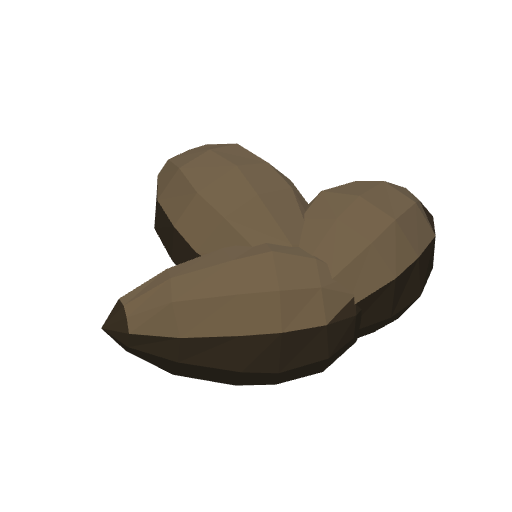
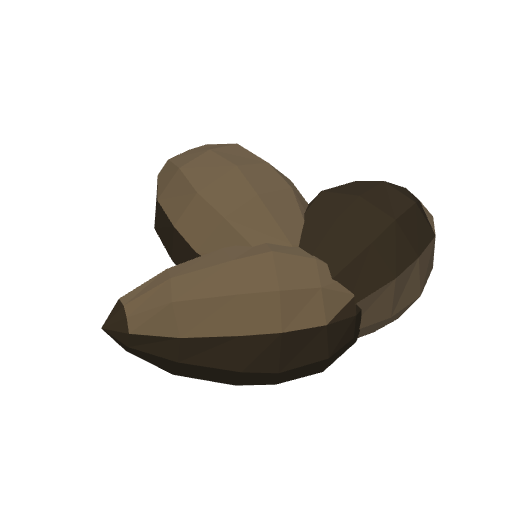
fix(ingredients): poppyseed·sunflowerseed 64px 판독 실패 수정
신규 16종 64px 판독에서 **14 통과 / 2 실패**. 둘 다 tri·KB·roundtrip은 통과한 상태였다.

## sunflowerseed — 색만 고쳤다 (tri 0 증가)

★검사가 결정적인 A/B를 짚었다: **`flaxseed`와 거의 같은 "1+n 겹침" 구성인데 승패가 갈렸다.**
flaxseed는 낱알 사이에 명도 대비가 있어 틈새(네거티브 스페이스)가 살았고, sunflowerseed는
3알이 전부 같은 배색이라 경계가 사라져 하나의 하트 실루엣으로 뭉쳤다.
**같은 구도인데 하나만 실패하면 그 차이가 곧 처방이다** — 원인 추측을 건너뛸 수 있었다.

머티리얼 2개가 상한이라 색을 못 늘린다. 대신 **낱알마다 두 버킷의 배정을 뒤집었다** —
a·c는 어두운 몸통+밝은 줄무늬, b는 그 반대. 인접한 알끼리 명도가 갈려 경계가 스스로 드러난다.
머티리얼 수도 tri(360)도 그대로다.

## poppyseed — 실루엣, 비율을 뒤집었다

"큰 원반이 화면을 지배하고 점들은 꼬리로 붙는다"는 진단을 수치로 확인했다:
더미 반지름 **0.78 vs 낱알 0.09~0.17 — 더미가 5~9배**였다.
★**다운샘플 전 512px 원본에서 이미 그랬다** — 해상도가 아니라 구도 문제다.

- 더미 0.78 → 0.52 (렌즈꼴 비율 유지, 지터도 같이 낮춤 — 명도 침식 방지)
- 낱알 0.09~0.17 → 0.20~0.30, 좌우로 벌려 셋이 안 겹치게
- 낱알/더미 비율 0.12~0.22배 → **0.38~0.58배**. tri 234 그대로

검사가 제안한 두 안 중 "알갱이 5~6개로 재설계"가 아니라 **비율 조정**을 택했다 —
개수를 늘리면 크랜베리 함정(뭉쳐서 얼룩)에 **반대로** 걸린다.

## 크립에 올린 것

★**"부품 : 더미" 비율이 판독을 정하고, 양쪽으로 다 틀릴 수 있다**는 표를 만들었다 —
coconut은 부품이 **커서** 성게 가시가 됐고 poppyseed는 **작아서** 먹혔다. 같은 축의 반대 방향이다.
그리고 **머티리얼 ≤2에서도 배정을 뒤집으면 낱알별 명암을 만들 수 있다**는 것.

검증: vitest 187/187 · tsc 0 · eslint src 0 · roundtrip 둘 다 통과 · 예산 그대로.

Claude-Session: https://claude.ai/code/session_01UpDH2U1e4JnMopJwuhVJAM

Changed region(s): [[0.5625, 0.3438, 0.875, 0.6562]]

diff --git a/scripts/ingredients/sunflowerseed.ts b/scripts/ingredients/sunflowerseed.ts
@@ -94,10 +94,28 @@ interface KernelDef {
 }
 // sunflowerseed.png/-2/-3 실측: 3알이 바짝 붙어 서로 다른 각도로 겹쳐 놓인다 — 올리브 클러스터
 // 패턴(offset/yaw/tiltZ 다양화)을 그대로 재사용하되 간격을 더 좁혀 "꽉 찬 덩어리" 인상을 준다.
+//
+// ★v2 (2026-08-26, 64px 판독 실패 수정): `flipBuckets`로 낱알별 명암을 교대시킨다.
+//
+// v1은 3알이 **전부 같은 배색**(몸통 어두움 + 같은 자리 줄무늬)이라 64px에서 낱알 경계가 사라지고
+// 하나의 하트 실루엣으로 뭉쳤다. `flaxseed`가 거의 같은 "1+n 겹침" 구성인데 통과한 이유는
+// 낱알 사이에 **명도 대비**가 있어 틈새(네거티브 스페이스)가 살아 있었기 때문이다 — 판독 검사가
+// 그 A/B를 그대로 짚었다.
+//
+// 머티리얼은 여전히 2개다(상한). **색을 늘리는 게 아니라 두 버킷의 배정을 낱알마다 뒤집는다** —
+// a·c는 어두운 몸통 + 밝은 줄무늬, b는 밝은 몸통 + 어두운 줄무늬. 인접한 알끼리 명도가 갈려
+// 경계가 스스로 드러난다. tri 0 증가.
+interface KernelDef {
+  offset: readonly [number, number];
+  yaw: number;
+  tiltZ: number;
+  /** true면 몸통·줄무늬 색을 서로 바꿔 이웃 알과 명도를 갈라 놓는다 */
+  flipBuckets: boolean;
+}
 const KERNELS: Record<'a' | 'b' | 'c', KernelDef> = {
-  a: { offset: [-0.42, 0.12], yaw: -0.4, tiltZ: 0.0 },
-  b: { offset: [0.42, 0.1], yaw: 0.45, tiltZ: 0.0 },
-  c: { offset: [0.0, -0.4], yaw: 1.6, tiltZ: 0.12 },
+  a: { offset: [-0.42, 0.12], yaw: -0.4, tiltZ: 0.0, flipBuckets: false },
+  b: { offset: [0.42, 0.1], yaw: 0.45, tiltZ: 0.0, flipBuckets: true },
+  c: { offset: [0.0, -0.4], yaw: 1.6, tiltZ: 0.12, flipBuckets: false },
 };
 
 export const createSunflowerseed: IngredientBuilder = (rng) => {
@@ -110,8 +128,9 @@ export const createSunflowerseed: IngredientBuilder = (rng) => {
     const def = KERNELS[key];
     const { bodyGeo, stripeGeo } = buildKernel(rng);
     const kernel = new THREE.Group();
-    kernel.add(new THREE.Mesh(bodyGeo, bodyMat));
-    kernel.add(new THREE.Mesh(stripeGeo, stripeMat));
+    // 배정만 뒤집는다 — 머티리얼 인스턴스는 둘 그대로라 mergeByMaterial의 ≤2 계약이 유지된다
+    kernel.add(new THREE.Mesh(bodyGeo, def.flipBuckets ? stripeMat : bodyMat));
+    kernel.add(new THREE.Mesh(stripeGeo, def.flipBuckets ? bodyMat : stripeMat));
     cluster.add(placeAndGround(kernel, def.offset, def.yaw, def.tiltZ));
   });
 

diff --git a/scripts/ingredients/poppyseed.ts b/scripts/ingredients/poppyseed.ts
@@ -54,10 +54,21 @@ function buildSeed(rng: () => number, radius: number): { bodyGeo: THREE.BufferGe
 }
 
 // 더미 — 낮고 넓은 힙(단일 버킷, BODY_COLOR). poppyseed.png 실측: 폭 대비 높이가 낮은 렌즈꼴.
+//
+// ★v2 (2026-08-26, 64px 판독 실패 수정): 더미를 줄이고 낱알을 키워 **비율을 뒤집었다.**
+//
+// v1은 더미 반지름 0.78 vs 낱알 0.09~0.17 — 더미가 낱알의 **5~9배**였다. 그 결과 64px에서
+// 더미가 화면을 지배하고 낱알은 꼬리처럼 붙어, "양귀비씨 무더기"가 아니라 **"검은 돌 하나"**로 읽혔다
+// (판독 검사: "딱정벌레 등껍질"). 다운샘플 전 512px 원본에서 이미 그랬다 — 해상도 문제가 아니라
+// 구도 문제였다.
+//
+// ★CRIB의 "부품 길이 : 더미 반지름 비율" 함정(coconut)과 **같은 축의 반대 방향**이다:
+// coconut은 부품이 더미보다 커서 성게 가시가 됐고, 여기는 부품이 너무 작아 더미에 먹혔다.
+// 어느 쪽이든 **둘의 비율**이 판독을 정한다.
 const MOUND_SEGMENTS = 14;
-const MOUND_RADIUS = 0.78;
-const MOUND_HALF_HEIGHT = 0.26;
-const MOUND_JITTER_AMP = 0.03;
+const MOUND_RADIUS = 0.52; // 0.78 → 낱알 대비 지배력을 낮춘다
+const MOUND_HALF_HEIGHT = 0.19; // 렌즈꼴 비율(높이/반지름 ≈ 0.33)은 유지
+const MOUND_JITTER_AMP = 0.024; // 반지름을 줄인 만큼 같이 (명도 침식 방지 — CRIB 실측)
 const MOUND_PROFILE: readonly ProfilePoint[] = [
   [0.85, -1.0],
   [1.0, -0.5],
@@ -91,10 +102,14 @@ interface SeedDef {
   radius: number;
 }
 // poppyseed.png 실측: 앞쪽 3알이 좌->우로 크기가 점증(소/중/대) — 단순 반복이 아닌 시각적 리듬.
+//
+// ★v2: 낱알을 키우고(0.09~0.17 → 0.20~0.30) 좌우로 더 벌렸다. 더미를 줄인 것과 짝이다 —
+// 이제 낱알이 더미의 **0.38~0.58배**라 "무더기 옆의 낱알들"로 읽힌다(v1은 0.12~0.22배로 부속물이었다).
+// 크기 점증 리듬은 유지하되 폭을 키워 셋이 서로 안 겹치게 했다(네거티브 스페이스 = 경계).
 const SEEDS: Record<'a' | 'b' | 'c', SeedDef> = {
-  a: { offset: [-0.62, 0.66], radius: 0.09 },
-  b: { offset: [-0.08, 0.72], radius: 0.13 },
-  c: { offset: [0.5, 0.68], radius: 0.17 },
+  a: { offset: [-0.78, 0.62], radius: 0.20 },
+  b: { offset: [-0.05, 0.74], radius: 0.25 },
+  c: { offset: [0.72, 0.6], radius: 0.30 },
 };
 
 export const createPoppyseed: IngredientBuilder = (rng) => {

diff --git a/scripts/ingredients/index.ts b/scripts/ingredients/index.ts
@@ -31,6 +31,7 @@ import { createYuzu } from './yuzu';
 import { createHoney } from './honey';
 import { createMaple } from './maple';
 import { createPistachio } from './pistachio';
+import { createBlackgarlic } from './blackgarlic';
 
 export const INGREDIENT_BUILDERS: Record<string, IngredientBuilder> = {
   olive: createOlive,
